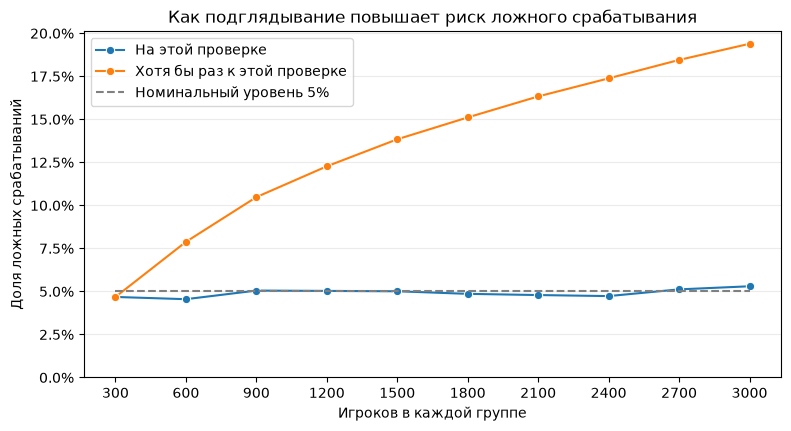
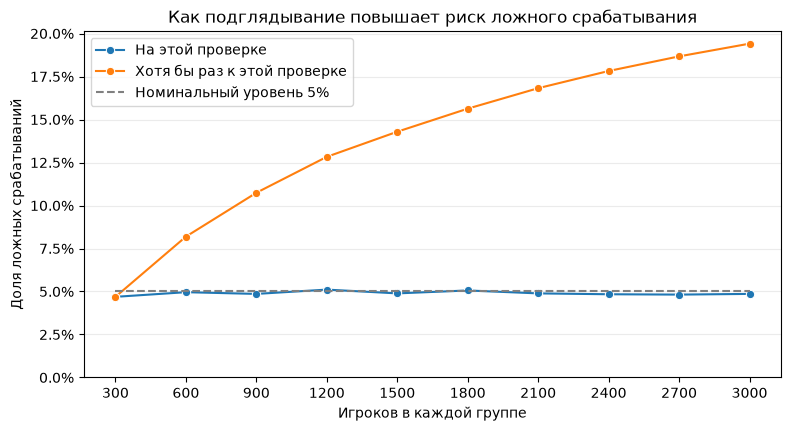
Согласовать парное сравнение симуляций и добавить тесты

diff --git a/tests/test_simulation.py b/tests/test_simulation.py
@@ -1,0 +1,105 @@
+import warnings
+
+import numpy as np
+import pandas as pd
+import pytest
+from statsmodels.stats.proportion import proportions_ztest
+
+from ab_testing.simulation import _significant_experiments, simulate_false_positive_rates
+
+
+def test_seed_reproducibility():
+    first_rate, first_results = simulate_false_positive_rates(n_experiments=100, seed=42)
+    second_rate, second_results = simulate_false_positive_rates(n_experiments=100, seed=42)
+
+    assert first_rate == second_rate
+    pd.testing.assert_frame_equal(first_results, second_results)
+
+
+def test_fixed_horizon_uses_final_accumulated_data():
+    seed = 17
+    n_experiments = 100
+    n_looks = 3
+    batch_size = 100
+    rate, results = simulate_false_positive_rates(
+        n_experiments=n_experiments,
+        players_per_group=batch_size * n_looks,
+        n_looks=n_looks,
+        seed=seed,
+    )
+
+    rng = np.random.default_rng(seed)
+    control = np.zeros(n_experiments, dtype=int)
+    treatment = np.zeros(n_experiments, dtype=int)
+    for _ in range(n_looks):
+        control += rng.binomial(batch_size, 0.20, size=n_experiments)
+        treatment += rng.binomial(batch_size, 0.20, size=n_experiments)
+    p_values = [
+        proportions_ztest([t, c], [300, 300], alternative='two-sided')[1]
+        for t, c in zip(treatment, control, strict=True)
+    ]
+
+    assert rate == np.mean(np.array(p_values) < 0.05)
+    assert rate == results.iloc[-1]['significant_at_look']
+
+
+def test_accumulation_properties():
+    rate, results = simulate_false_positive_rates(n_experiments=200)
+    assert results['players_per_group'].tolist() == list(range(300, 3001, 300))
+    rates = results[['significant_at_look', 'significant_by_look']]
+    assert rates.ge(0).all().all()
+    assert rates.le(1).all().all()
+    assert results['significant_by_look'].is_monotonic_increasing
+    assert results['significant_by_look'].ge(results['significant_at_look']).all()
+    assert results.iloc[0]['significant_by_look'] == results.iloc[0]['significant_at_look']
+    assert rate == results.iloc[-1]['significant_at_look']
+
+
+def test_one_look_has_same_decision_for_both_strategies():
+    rate, results = simulate_false_positive_rates(n_experiments=100, n_looks=1)
+    assert rate == results.iloc[0]['significant_by_look']
+
+
+def test_zero_variance_does_not_reject():
+    with warnings.catch_warnings():
+        warnings.simplefilter('error')
+        significant = _significant_experiments(
+            treatment_returns=np.array([0, 100]),
+            control_returns=np.array([0, 100]),
+            players_per_group=100,
+            alpha=0.05,
+        )
+    np.testing.assert_array_equal(significant, [False, False])
+
+
+def test_decisions_match_statsmodels():
+    treatment = np.array([10, 20, 0, 100])
+    control = np.array([20, 20, 100, 0])
+    expected = [
+        proportions_ztest([t, c], [100, 100], alternative='two-sided')[1] < 0.05
+        for t, c in zip(treatment, control, strict=True)
+    ]
+    np.testing.assert_array_equal(
+        _significant_experiments(treatment, control, 100, 0.05), expected
+    )
+
+
+@pytest.mark.parametrize('parameters', [
+    {'n_experiments': 0},
+    {'n_experiments': 1.5},
+    {'n_experiments': True},
+    {'players_per_group': -1},
+    {'players_per_group': 301},
+    {'n_looks': 0},
+    {'n_looks': 2.5},
+    {'n_looks': 4000},
+    {'baseline_d7': 0},
+    {'baseline_d7': 1},
+    {'baseline_d7': np.nan},
+    {'alpha': 0},
+    {'alpha': 1},
+    {'alpha': np.nan},
+])
+def test_invalid_parameters(parameters):
+    with pytest.raises(ValueError):
+        simulate_false_positive_rates(**parameters)

diff --git a/src/ab_testing/simulation.py b/src/ab_testing/simulation.py
@@ -1,3 +1,5 @@
+from numbers import Integral
+
 import numpy as np
 import pandas as pd
 from statsmodels.stats.proportion import proportions_ztest
@@ -35,7 +37,10 @@ def simulate_false_positive_rates(
     alpha: float = 0.05,
     seed: int = 2026,
 ) -> tuple[float, pd.DataFrame]:
-    '''Возвращает долю ложных срабатываний в контрольном прогоне и таблицу peeking.'''
+    '''Сравнивает финальную проверку и peeking на одних накопленных данных.'''
+    sizes = (n_experiments, players_per_group, n_looks)
+    if any(isinstance(value, bool) or not isinstance(value, Integral) for value in sizes):
+        raise ValueError('Число экспериментов, игроков и проверок должно быть целым')
     if n_experiments < 1 or players_per_group < 1 or n_looks < 1:
         raise ValueError('Число экспериментов, игроков и проверок должно быть положительным')
     if players_per_group % n_looks:
@@ -44,12 +49,6 @@ def simulate_false_positive_rates(
         raise ValueError('baseline_d7 и alpha должны быть строго между нулём и единицей')
 
     rng = np.random.default_rng(seed)
-    control_returns = rng.binomial(players_per_group, baseline_d7, size=n_experiments)
-    treatment_returns = rng.binomial(players_per_group, baseline_d7, size=n_experiments)
-    fixed_horizon_rate = _significant_experiments(
-        treatment_returns, control_returns, players_per_group, alpha
-    ).mean()
-
     # Каждая порция добавляет новых игроков к тем же экспериментам.
     players_per_batch = players_per_group // n_looks
     control_returns = np.zeros(n_experiments, dtype=int)
@@ -72,12 +71,14 @@ def simulate_false_positive_rates(
             'significant_by_look': ever_significant.mean(),
         })
 
-    return float(fixed_horizon_rate), pd.DataFrame(results)
+    results_by_look = pd.DataFrame(results)
+    fixed_horizon_rate = float(results_by_look.iloc[-1]['significant_at_look'])
+    return fixed_horizon_rate, results_by_look
 
 
 if __name__ == '__main__':
     fixed_rate, peeking_results = simulate_false_positive_rates()
-    print(f'Отдельный прогон с одной проверкой в конце: {fixed_rate:.2%}')
+    print(f'Одна финальная проверка на накопленных данных: {fixed_rate:.2%}')
     print(peeking_results.to_string(
         index=False,
         formatters={

diff --git a/docs/business_report.md b/docs/business_report.md
@@ -2,7 +2,7 @@
 
 ## Краткое резюме
 
-**Рекомендуем сохранить ворота на 30-м уровне.** В группе `gate_40` наблюдаемое удержание на седьмой день ниже на **0,82 процентного пункта** — примерно на 8 возвратов меньше на 1 000 игроков. 95%-й доверительный интервал для разности `gate_40 − gate_30` составляет **[−1,33; −0,31] п.п.** Двусторонний z-тест отвергает гипотезу о равенстве долей при p-value = 0,00155.
+**Предварительно рекомендуем сохранить ворота на 30-м уровне до проверки процедуры рандомизации и формирования выгрузки.** В группе `gate_40` наблюдаемое удержание на седьмой день ниже на **0,82 процентного пункта** — примерно на 8 возвратов меньше на 1 000 игроков. 95%-й доверительный интервал для разности `gate_40 − gate_30` составляет **[−1,33; −0,31] п.п.** Двусторонний z-тест отвергает гипотезу о равенстве долей при p-value = 0,00155.
 
 Плановая пропорция назначения игроков неизвестна. Проверка соответствия распределению 50/50 (SRM) при таком допущении дала p-value = 0,0086. Перед окончательным причинным выводом нужно уточнить процедуру назначения и формирования выгрузки.
 
@@ -51,7 +51,7 @@
 
 ## Рекомендация
 
-**Сохранить ворота на 30-м уровне.** Имеющиеся данные показывают более низкое D7 в `gate_40` и не дают оснований ожидать улучшения удержания от переноса.
+**Предварительно сохранить ворота на 30-м уровне до проверки процедуры рандомизации и формирования выгрузки.** Имеющиеся данные показывают более низкое D7 в `gate_40` и не дают оснований ожидать улучшения удержания от переноса.
 
 Перед новым тестом следует документировать случайное назначение, заранее задать пропорцию распределения игроков и контролировать соответствие наблюдаемых размеров групп плану.
 
@@ -68,4 +68,4 @@
 
 До запуска нужно определить практически важный эффект, рассчитать размер выборки, зафиксировать пропорцию назначения и момент финальной проверки. Для каждого игрока необходимо дождаться полного окна D7. Соответствие наблюдаемых размеров групп плановой пропорции следует проверять до интерпретации результатов.
 
-На 10 000 синтетических экспериментах без эффекта одна финальная проверка дала **5,30%** ложных срабатываний, а остановка при первом значимом результате из десяти проверок — **19,39%**. Это сравнение на одних и тех же симулированных данных обосновывает необходимость заранее выбирать фиксированный горизонт или последовательную процедуру с контролем ошибки I рода. Результаты приведены в [ноутбуке симуляции](../notebooks/03_simulation_results.ipynb).
+На 10 000 синтетических экспериментах без эффекта одна финальная проверка дала **4,86%** ложных срабатываний, а остановка при первом значимом результате из десяти проверок — **19,41%**. Это сравнение на одних и тех же симулированных данных обосновывает необходимость заранее выбирать фиксированный горизонт или последовательную процедуру с контролем ошибки I рода. Результаты приведены в [ноутбуке симуляции](../notebooks/03_simulation_results.ipynb).

diff --git a/README.md b/README.md
@@ -4,7 +4,7 @@
 
 ## Результаты
 
-**Рекомендация — сохранить ворота на 30-м уровне.** В группе `gate_40` наблюдаемое D7 ниже на **0,82 п.п.**, или примерно на 8 возвратов на седьмой день на 1 000 игроков.
+**Предварительная рекомендация — сохранить ворота на 30-м уровне до проверки процедуры рандомизации и формирования выгрузки.** В группе `gate_40` наблюдаемое D7 ниже на **0,82 п.п.**, или примерно на 8 возвратов на седьмой день на 1 000 игроков.
 
 | Метрика | `gate_30` | `gate_40` | Разность, п.п. | 95%-й ДИ Ньюкомба, п.п. | p-value |
 | --- | ---: | ---: | ---: | ---: | ---: |
@@ -19,7 +19,7 @@
 
 На **10 000 синтетических экспериментах без истинного эффекта** сравниваются одна финальная проверка и остановка при первом значимом результате из десяти накопительных проверок. В каждой группе 3 000 игроков, вероятность возврата 20%, уровень значимости 5%, seed 2026.
 
-На одних и тех же симулированных данных частота ложных срабатываний составила **5,30%** при одной финальной проверке и **19,39%** при подглядывании. Результат относится к выбранному расписанию проверок. Расписание исходного эксперимента Cookie Cats неизвестно.
+На одних и тех же симулированных данных частота ложных срабатываний составила **4,86%** при одной финальной проверке и **19,41%** при подглядывании. Результат относится к выбранному расписанию проверок. Расписание исходного эксперимента Cookie Cats неизвестно.
 
 ![Частота ложных срабатываний при накопительных проверках](figures/peeking_false_positive_rates.png)
 
@@ -63,3 +63,5 @@ uv run --locked python -m ab_testing.simulation
 Ноутбук `03` и модуль симуляции работают на синтетических данных и доступны без CSV. В ноутбуках сохранены результаты выполненных ячеек.
 
 Воспроизводимость проверена 18 ноября 2026 года на macOS с Python 3.12.13. В отдельной копии репозитория создано новое окружение через `uv sync --locked`, CSV скачан заново, все три ноутбука выполнены в чистых ядрах. Расчёт выборки и симуляция воспроизвели опубликованные результаты.
+
+Автоматизированные проверки симуляции запускаются командой `uv run --locked pytest`. Они проверяют парное сравнение стратегий, воспроизводимость по seed, накопление результатов, валидацию параметров и крайние случаи.
